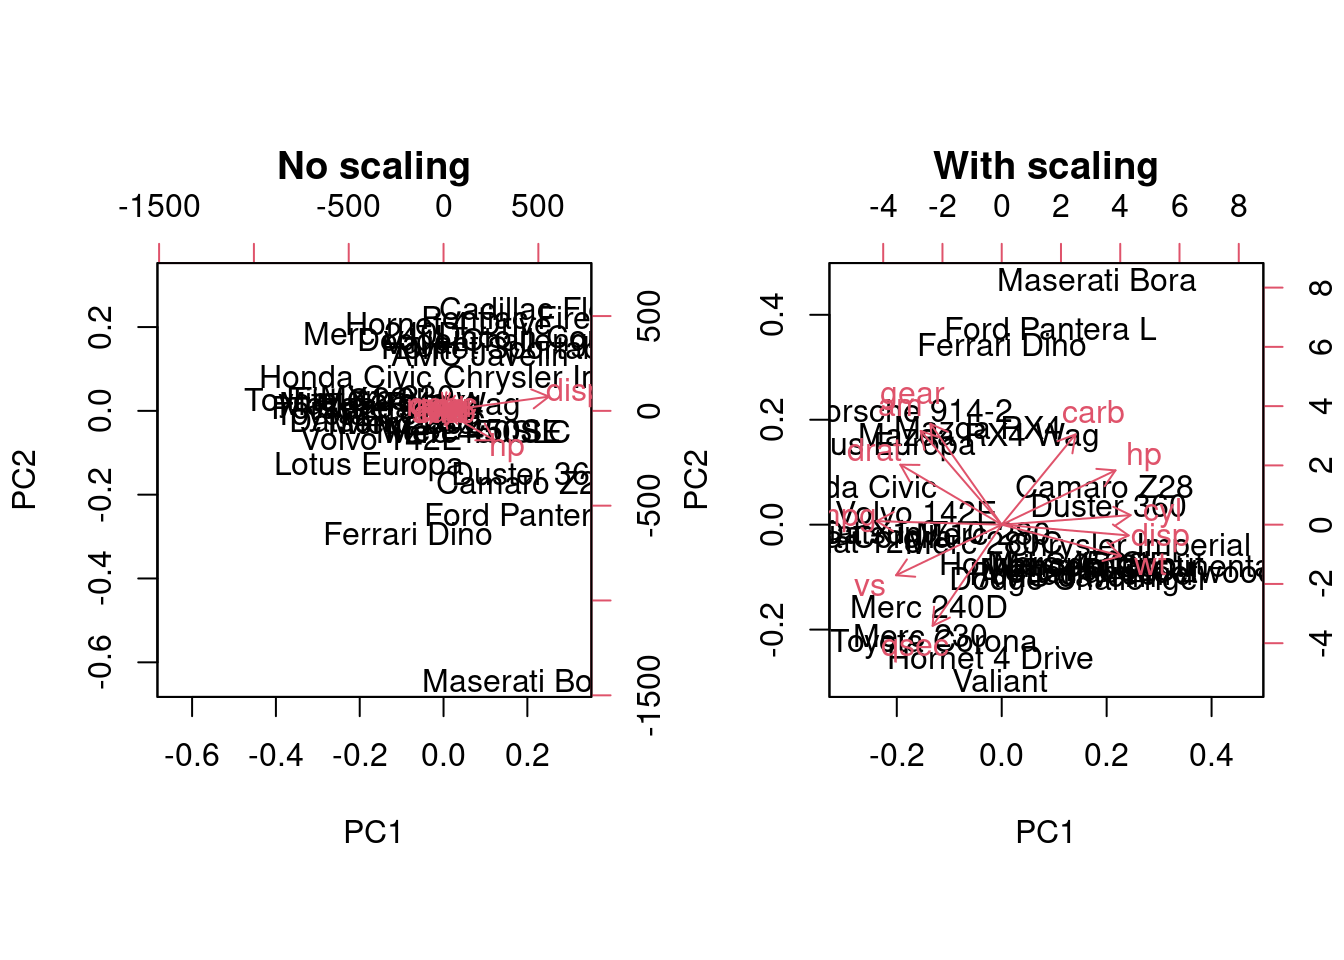
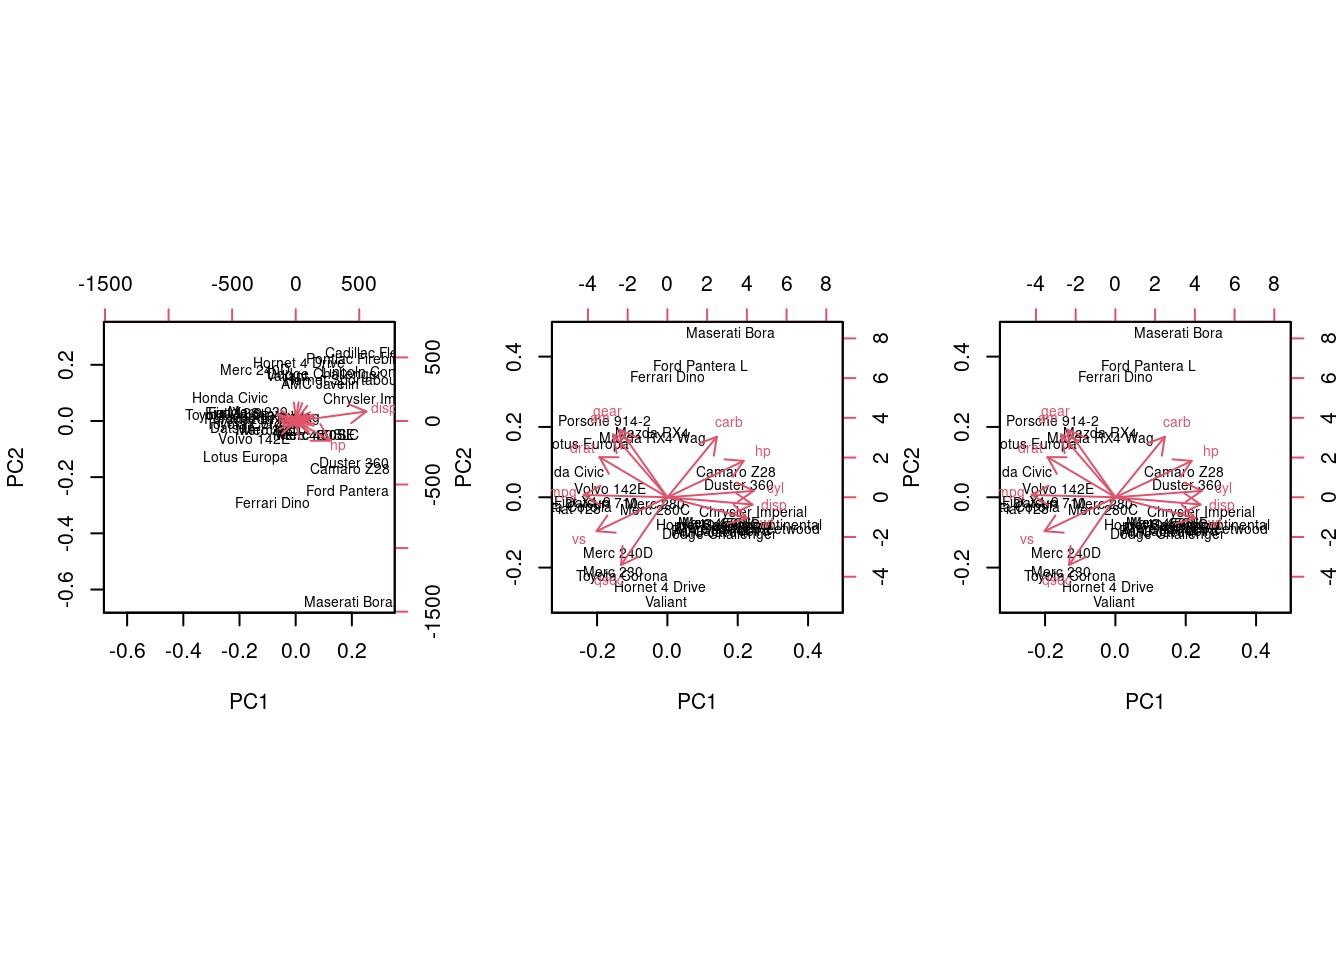
rebuild book

diff --git a/docs/sec-dimred.html b/docs/sec-dimred.html
@@ -13,7 +13,7 @@
 
 <meta name="author" content="Laurent Gatto" />
 
-<meta name="date" content="2022-11-01" />
+<meta name="date" content="2022-11-07" />
 
 <script type="text/x-mathjax-config">
 MathJax.Hub.Config({
@@ -623,14 +623,25 @@ scaling. Compare and interpret the results.</p>
 ► Solution<span id="sol-start-45" class="fa fa-plus-square solution-icon clickable" onclick="toggle_visibility('sol-body-45', 'sol-start-45')"></span>
 </p>
 <div id="sol-body-45" class="solution-body" style="display: none;">
-<div class="sourceCode" id="cb326"><pre class="sourceCode r"><code class="sourceCode r"><span id="cb326-1"><a href="sec-dimred.html#cb326-1" aria-hidden="true" tabindex="-1"></a><span class="fu">par</span>(<span class="at">mfrow =</span> <span class="fu">c</span>(<span class="dv">1</span>, <span class="dv">2</span>))</span>
-<span id="cb326-2"><a href="sec-dimred.html#cb326-2" aria-hidden="true" tabindex="-1"></a><span class="fu">biplot</span>(<span class="fu">prcomp</span>(mtcars, <span class="at">scale =</span> <span class="cn">FALSE</span>), <span class="at">main =</span> <span class="st">"No scaling"</span>)  <span class="do">## 1</span></span>
-<span id="cb326-3"><a href="sec-dimred.html#cb326-3" aria-hidden="true" tabindex="-1"></a><span class="fu">biplot</span>(<span class="fu">prcomp</span>(mtcars, <span class="at">scale =</span> <span class="cn">TRUE</span>), <span class="at">main =</span> <span class="st">"With scaling"</span>) <span class="do">## 2</span></span></code></pre></div>
+<div class="sourceCode" id="cb326"><pre class="sourceCode r"><code class="sourceCode r"><span id="cb326-1"><a href="sec-dimred.html#cb326-1" aria-hidden="true" tabindex="-1"></a><span class="fu">par</span>(<span class="at">mfrow =</span> <span class="fu">c</span>(<span class="dv">1</span>, <span class="dv">3</span>))</span>
+<span id="cb326-2"><a href="sec-dimred.html#cb326-2" aria-hidden="true" tabindex="-1"></a><span class="fu">prcomp</span>(mtcars) <span class="sc">|&gt;</span> <span class="fu">biplot</span>() <span class="do">## no scaling</span></span>
+<span id="cb326-3"><a href="sec-dimred.html#cb326-3" aria-hidden="true" tabindex="-1"></a><span class="fu">prcomp</span>(mtcars, <span class="at">scale =</span> <span class="cn">TRUE</span>) <span class="sc">|&gt;</span> <span class="fu">biplot</span>() <span class="do">## prcomp() scales the data</span></span>
+<span id="cb326-4"><a href="sec-dimred.html#cb326-4" aria-hidden="true" tabindex="-1"></a><span class="fu">scale</span>(mtcars) <span class="sc">|&gt;</span> <span class="fu">prcomp</span>() <span class="sc">|&gt;</span> <span class="fu">biplot</span>() <span class="do">## scaling (and centering) before by hand</span></span></code></pre></div>
 <p><img src="WSBIM1322_files/figure-html/scalepcasol-1.png" width="672"></p>
+<p>Note that <code>prcomp()</code> centers the data by default - see <code>?prcomp</code> for
+details.</p>
 <p>Without scaling, <code>disp</code> and <code>hp</code> are the features with the highest
 loadings along PC1 and 2 (all others are negligible), which are also
 those with the highest units of measurement. Scaling removes this
 effect.</p>
+<p>Options two and three in the code chunk above are equivalent - the
+only difference is that the data are centered twice in the last
+option, once by <code>scale()</code> and once by `prcomp(). These two options
+however aren’t equivalent at all if the transposed data used for
+PCA. In our applications, we always normalise our data prior to any
+analysis. The scaling during PCA should only be necessary if we want
+to remove the effect of some features being (much more) highly
+expressed than others.</p>
 <p class="solution-end">
 <span class="fa fa-square-o solution-icon"></span>
 </p>
@@ -1324,7 +1335,7 @@ the labels?</p>
 <a href="sec-ul.html"><button class="btn btn-default">Next</button></a>
 </p>
 <p class="build-date">Page built: 
-2022-11-01
+2022-11-07
  using 
 R version 4.2.1 (2022-06-23)
 </p>

diff --git a/docs/sec-vis.html b/docs/sec-vis.html
@@ -13,7 +13,7 @@
 
 <meta name="author" content="Laurent Gatto" />
 
-<meta name="date" content="2022-11-01" />
+<meta name="date" content="2022-11-07" />
 
 <script type="text/x-mathjax-config">
 MathJax.Hub.Config({
@@ -917,7 +917,7 @@ of the data.</p>
 <span id="cb37-9"><a href="sec-vis.html#cb37-9" aria-hidden="true" tabindex="-1"></a>p2 <span class="ot">&lt;-</span>  <span class="fu">ggplot</span>(sim, <span class="fu">aes</span>(<span class="fu">log</span>(x))) <span class="sc">+</span></span>
 <span id="cb37-10"><a href="sec-vis.html#cb37-10" aria-hidden="true" tabindex="-1"></a>    <span class="fu">geom_histogram</span>(<span class="at">bins =</span> <span class="dv">30</span>)</span>
 <span id="cb37-11"><a href="sec-vis.html#cb37-11" aria-hidden="true" tabindex="-1"></a>p1 <span class="sc">+</span> p2</span></code></pre></div>
-<pre><code>## Warning: Removed 8021 rows containing non-finite values (stat_bin).</code></pre>
+<pre><code>## Warning: Removed 7967 rows containing non-finite values (stat_bin).</code></pre>
 <div class="figure">
 <span style="display:block;" id="fig:sim"></span>
 <p class="caption marginnote shownote">
@@ -1163,7 +1163,7 @@ otherwise. Below are some example outputs.</p>
 <a href="sec-obj.html"><button class="btn btn-default">Next</button></a>
 </p>
 <p class="build-date">Page built: 
-2022-11-01
+2022-11-07
  using 
 R version 4.2.1 (2022-06-23)
 </p>

diff --git a/docs/index.html b/docs/index.html
@@ -13,7 +13,7 @@
 
 <meta name="author" content="Laurent Gatto" />
 
-<meta name="date" content="2022-11-01" />
+<meta name="date" content="2022-11-07" />
 
 <script type="text/x-mathjax-config">
 MathJax.Hub.Config({
@@ -337,7 +337,7 @@ style</a> <span class="citation">(<label for="tufte-mn-10" class="margin-toggle"
 <a href="sec-refresher.html"><button class="btn btn-default">Next</button></a>
 </p>
 <p class="build-date">Page built: 
-2022-11-01
+2022-11-07
  using 
 R version 4.2.1 (2022-06-23)
 </p>

diff --git a/docs/sec-sl.html b/docs/sec-sl.html
@@ -13,7 +13,7 @@
 
 <meta name="author" content="Laurent Gatto" />
 
-<meta name="date" content="2022-11-01" />
+<meta name="date" content="2022-11-07" />
 
 <script type="text/x-mathjax-config">
 MathJax.Hub.Config({
@@ -1051,7 +1051,7 @@ most reliable assignments one, and setting the unreliable ones to
 <a href="sec-biovis.html"><button class="btn btn-default">Next</button></a>
 </p>
 <p class="build-date">Page built: 
-2022-11-01
+2022-11-07
  using 
 R version 4.2.1 (2022-06-23)
 </p>

diff --git a/docs/sec-norm.html b/docs/sec-norm.html
@@ -13,7 +13,7 @@
 
 <meta name="author" content="Laurent Gatto" />
 
-<meta name="date" content="2022-11-01" />
+<meta name="date" content="2022-11-07" />
 
 <script type="text/x-mathjax-config">
 MathJax.Hub.Config({
@@ -760,7 +760,7 @@ samples distributions at each step. Interpret what you see.</p>
 <a href="sec-mlintro.html"><button class="btn btn-default">Next</button></a>
 </p>
 <p class="build-date">Page built: 
-2022-11-01
+2022-11-07
  using 
 R version 4.2.1 (2022-06-23)
 </p>

diff --git a/docs/sec-biovis.html b/docs/sec-biovis.html
@@ -13,7 +13,7 @@
 
 <meta name="author" content="Laurent Gatto" />
 
-<meta name="date" content="2022-11-01" />
+<meta name="date" content="2022-11-07" />
 
 <script type="text/x-mathjax-config">
 MathJax.Hub.Config({
@@ -491,7 +491,7 @@ number of intersections (default is 40) become useful.</p>
 <a href="sec-ccl.html"><button class="btn btn-default">Next</button></a>
 </p>
 <p class="build-date">Page built: 
-2022-11-01
+2022-11-07
  using 
 R version 4.2.1 (2022-06-23)
 </p>

diff --git a/docs/sec-ccl.html b/docs/sec-ccl.html
@@ -13,7 +13,7 @@
 
 <meta name="author" content="Laurent Gatto" />
 
-<meta name="date" content="2022-11-01" />
+<meta name="date" content="2022-11-07" />
 
 <script type="text/x-mathjax-config">
 MathJax.Hub.Config({
@@ -512,7 +512,7 @@ effect of that outlier of the differential analysis.</li>
 <a href="sec-si.html"><button class="btn btn-default">Next</button></a>
 </p>
 <p class="build-date">Page built: 
-2022-11-01
+2022-11-07
  using 
 R version 4.2.1 (2022-06-23)
 </p>

diff --git a/docs/sec-mlintro.html b/docs/sec-mlintro.html
@@ -13,7 +13,7 @@
 
 <meta name="author" content="Laurent Gatto" />
 
-<meta name="date" content="2022-11-01" />
+<meta name="date" content="2022-11-07" />
 
 <script type="text/x-mathjax-config">
 MathJax.Hub.Config({
@@ -759,7 +759,7 @@ but these are beyond the scope of this course.</p>
 <a href="sec-testing.html"><button class="btn btn-default">Next</button></a>
 </p>
 <p class="build-date">Page built: 
-2022-11-01
+2022-11-07
  using 
 R version 4.2.1 (2022-06-23)
 </p>

diff --git a/docs/sec-obj.html b/docs/sec-obj.html
@@ -13,7 +13,7 @@
 
 <meta name="author" content="Laurent Gatto" />
 
-<meta name="date" content="2022-11-01" />
+<meta name="date" content="2022-11-07" />
 
 <script type="text/x-mathjax-config">
 MathJax.Hub.Config({
@@ -995,7 +995,7 @@ of class <code>SummarizedExperiment</code>.</p>
 <a href="sec-biostrings.html"><button class="btn btn-default">Next</button></a>
 </p>
 <p class="build-date">Page built: 
-2022-11-01
+2022-11-07
  using 
 R version 4.2.1 (2022-06-23)
 </p>

diff --git a/docs/sec-ul.html b/docs/sec-ul.html
@@ -13,7 +13,7 @@
 
 <meta name="author" content="Laurent Gatto" />
 
-<meta name="date" content="2022-11-01" />
+<meta name="date" content="2022-11-07" />
 
 <script type="text/x-mathjax-config">
 MathJax.Hub.Config({
@@ -997,7 +997,7 @@ average marker profiles, such as shown below.</p></li>
 <a href="sec-sl.html"><button class="btn btn-default">Next</button></a>
 </p>
 <p class="build-date">Page built: 
-2022-11-01
+2022-11-07
  using 
 R version 4.2.1 (2022-06-23)
 </p>

diff --git a/docs/sec-refresher.html b/docs/sec-refresher.html
@@ -13,7 +13,7 @@
 
 <meta name="author" content="Laurent Gatto" />
 
-<meta name="date" content="2022-11-01" />
+<meta name="date" content="2022-11-07" />
 
 <script type="text/x-mathjax-config">
 MathJax.Hub.Config({
@@ -370,7 +370,7 @@ state it explicitly in your response.</p>
 <a href="sec-vis.html"><button class="btn btn-default">Next</button></a>
 </p>
 <p class="build-date">Page built: 
-2022-11-01
+2022-11-07
  using 
 R version 4.2.1 (2022-06-23)
 </p>

diff --git a/docs/sec-si.html b/docs/sec-si.html
@@ -13,7 +13,7 @@
 
 <meta name="author" content="Laurent Gatto" />
 
-<meta name="date" content="2022-11-01" />
+<meta name="date" content="2022-11-07" />
 
 <script type="text/x-mathjax-config">
 MathJax.Hub.Config({
@@ -319,7 +319,7 @@ the following code:</p>
 <a href="sec-ccl.html"><button class="btn btn-default">Previous</button></a>
 </p>
 <p class="build-date">Page built: 
-2022-11-01
+2022-11-07
  using 
 R version 4.2.1 (2022-06-23)
 </p>
